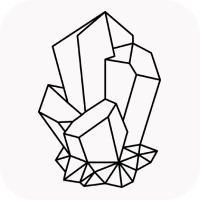
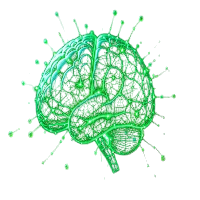
Quartz sync: Sep 24, 2025, 4:42 PM

diff --git a/quartz/styles/custom.scss b/quartz/styles/custom.scss
@@ -98,12 +98,12 @@ h6, .cm-header-6 {
    ================================ */
 
 /* === Base Typography === */
-// body {
+//  body {
 //   font-family: "Inter", "Segoe UI", sans-serif;
 //   line-height: 1.6;
 //   background: #0d1117; /* GitHub dark background */
 //   color: #c9d1d9;      /* Default text color */
-// } 
+//  } 
 
 /* === Headings (GitHub palette + your green for H1) === */
 

diff --git a/quartz.config.ts b/quartz.config.ts
@@ -8,13 +8,14 @@ import * as Plugin from "./quartz/plugins"
  */
 const config: QuartzConfig = {
   configuration: {
-    pageTitle: "Amos🌱💎",
+    pageTitle: "MGODI⛏💎",
     pageTitleSuffix: " | DevOps and Software Engineer",
     enableSPA: true,
     enablePopovers: true,
     analytics: {
       provider: "plausible",
     },
+    
     locale: "en-US",
     baseUrl: "greensr2.netlify.app",
     ignorePatterns: ["private", "templates", ".obsidian"],